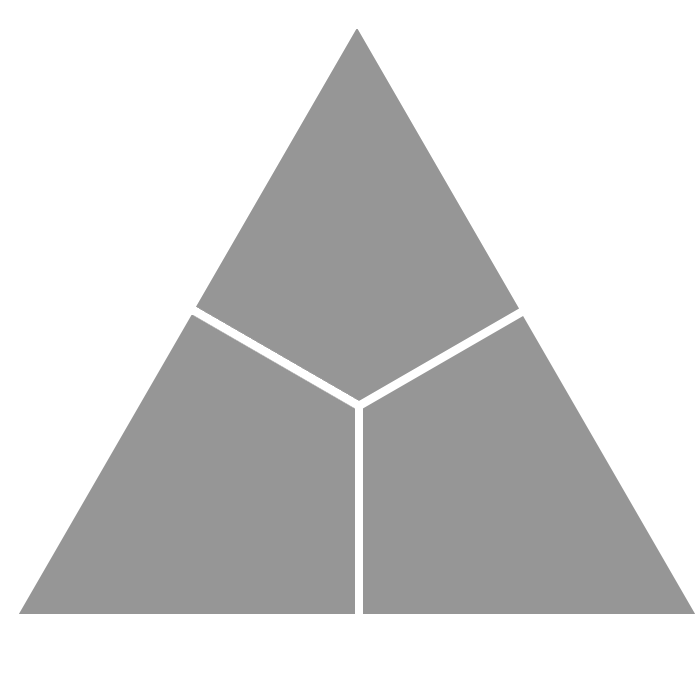
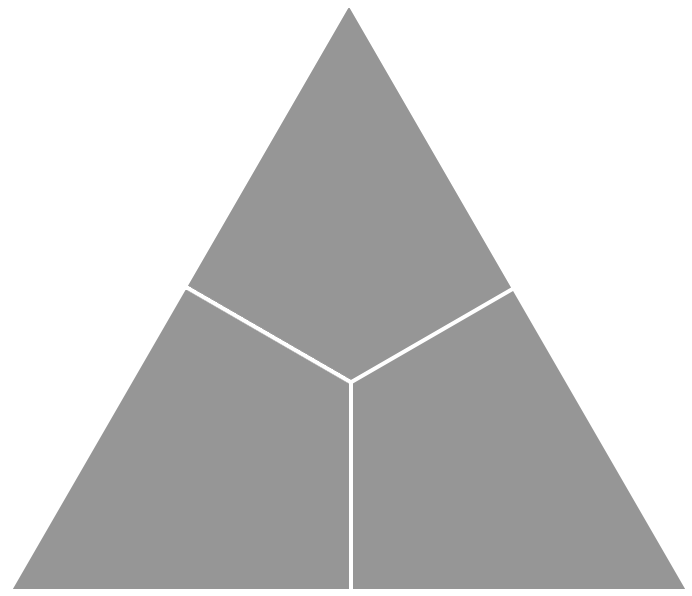
triangle working, new navigation

diff --git a/app/assets/stylesheets/because.css.scss b/app/assets/stylesheets/because.css.scss
@@ -36,6 +36,11 @@
 		font-weight: 300;
 		font-size: 1em;
 		line-height: 1em;
+		-webkit-transition: all .5s;
+        -moz-transition: all .5s;
+        -ms-transition: all .5s;
+        -o-transition: all .5s;
+        transition: all .5s;
 
 		.box {
 			height: 3px;
@@ -53,9 +58,10 @@
 	}
 
 	a:hover {
+		margin-left: -.5em;
 		
 		.box {
-			width: 60%;
+			width: 1.5em;
 		}
 	}
 
@@ -680,7 +686,7 @@
 		width: 150px;
 		height: 150px;
 		border-radius: 150px;
-		left: 11%;
+		left: 165px;
 		top: -10px;
 	}
 
@@ -688,39 +694,39 @@
 		width: 65px;
 		height: 65px;
 		border-radius: 65px;
-		left: 26.5%;
-		top: -5px;
+		left: 410px;
+		top: -3px;
 	}
 
 	.three {
 		width: 60px;
 		height: 60px;
 		border-radius: 65px;
-		left: 23%;
-		top: 163px;
+		left: 356px;
+		top: 165px;
 	}
 
 	.four {
 		width: 30px;
 		height: 30px;
 		border-radius: 30px;
-		left: 29%;
-		top: 102px;
+		left: 458px;
+		top: 105px;
 	}
 
 	.five {
 		width: 30px;
 		height: 30px;
 		border-radius: 30px;
-		left: 38%;
-		top: 7px;
+		left: 592px;
+		top: 8px;
 	}
 
 	.six {
 		width: 30px;
 		height: 30px;
 		border-radius: 30px;
-		left: 57%;
+		left: 883px;
 		top: 160px;
 	}
 
@@ -728,11 +734,20 @@
 		width: 60px;
 		height: 60px;
 		border-radius: 60px;
-		left: 70%;
-		top: 45px;
+		left: 622px;
+		top: 123px;
 	}		
 }
 
+.ent_image {
+	width: 1200px;
+	height: 252px;
+	position: absolute;
+	margin-left: 155px;
+	margin-top: -20px;
+	background: url("/assets/business_header.png") no-repeat;
+	z-index: -1;
+}
 #biz_header {
 	width: 100%;
 	height: 252px;
@@ -740,14 +755,6 @@
 	h1 {
 		padding-top: 1em;
 		z-index: 15;
-	}
-
-	img {
-		position: absolute;
-		z-index: -1;
-		top: -20px;
-		left: 10%;
-		opacity: .7;
 	}
 }
 

diff --git a/app/assets/stylesheets/welcome.css.scss b/app/assets/stylesheets/welcome.css.scss
@@ -14,7 +14,7 @@
 
 	h1 {
 		margin:0;
-		padding: 2em;
+		padding: 2em 0 3em 0;
 		text-align: center;
 		font-family: 'Source Sans Pro', sans-serif;
 		font-weight: 300;
@@ -23,8 +23,8 @@
 
 	#graphic {
 		position: absolute;
-		width: 700px;
-		height: 600px;
+		width: 692px;
+		height: 596px;
 		margin-right: 50%;
 		right: -350px;
 
@@ -39,8 +39,8 @@
 		#triangle {
 			margin-left: auto;
 			margin-right: auto;
-			width: 700px;
-			height: 700px;
+			width: 692px;
+			height: 596px;
 			z-index: 0;
 		}
 	}
